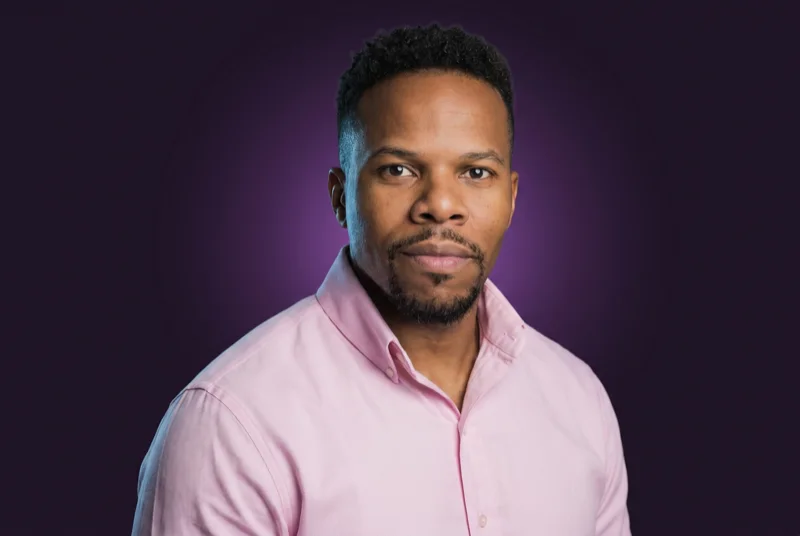
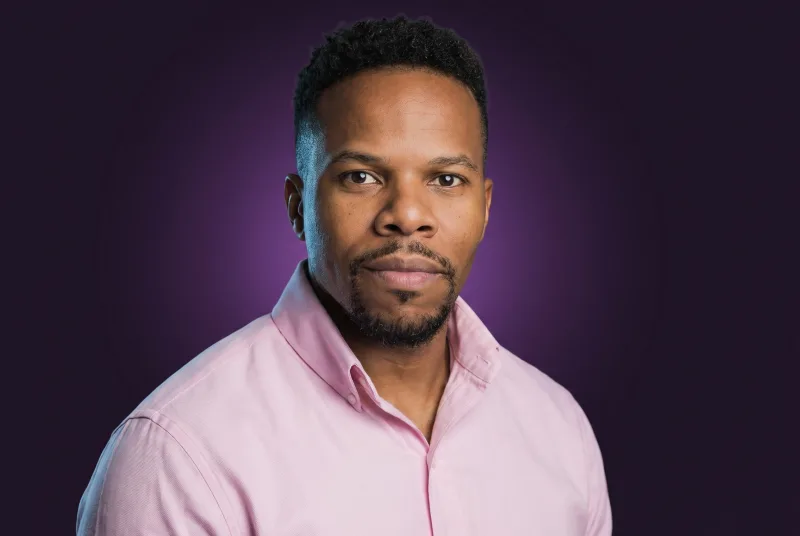
Testimonials: swap in new Emeka Ikechi photo
Regenerated emeka_ikechi.webp (800x536) from updated source and bumped
the ref to ?v=2 so the new image bypasses cache.

Changed region(s): [[0.0938, 0.0299, 0.8125, 1.0]]

diff --git a/bmc.html b/bmc.html
@@ -2966,7 +2966,7 @@ color: var(--grey);
 
       <article class="t-quote">
         <div class="t-quote-photo">
-          <img class="t-quote-img" src="emeka_ikechi.webp" alt="Emeka Ikechi" width="800" height="550" loading="lazy" decoding="async" />
+          <img class="t-quote-img" src="emeka_ikechi.webp?v=2" alt="Emeka Ikechi" width="800" height="550" loading="lazy" decoding="async" />
           <span class="t-quote-chip">Photography</span>
         </div>
         <div class="t-quote-content">
